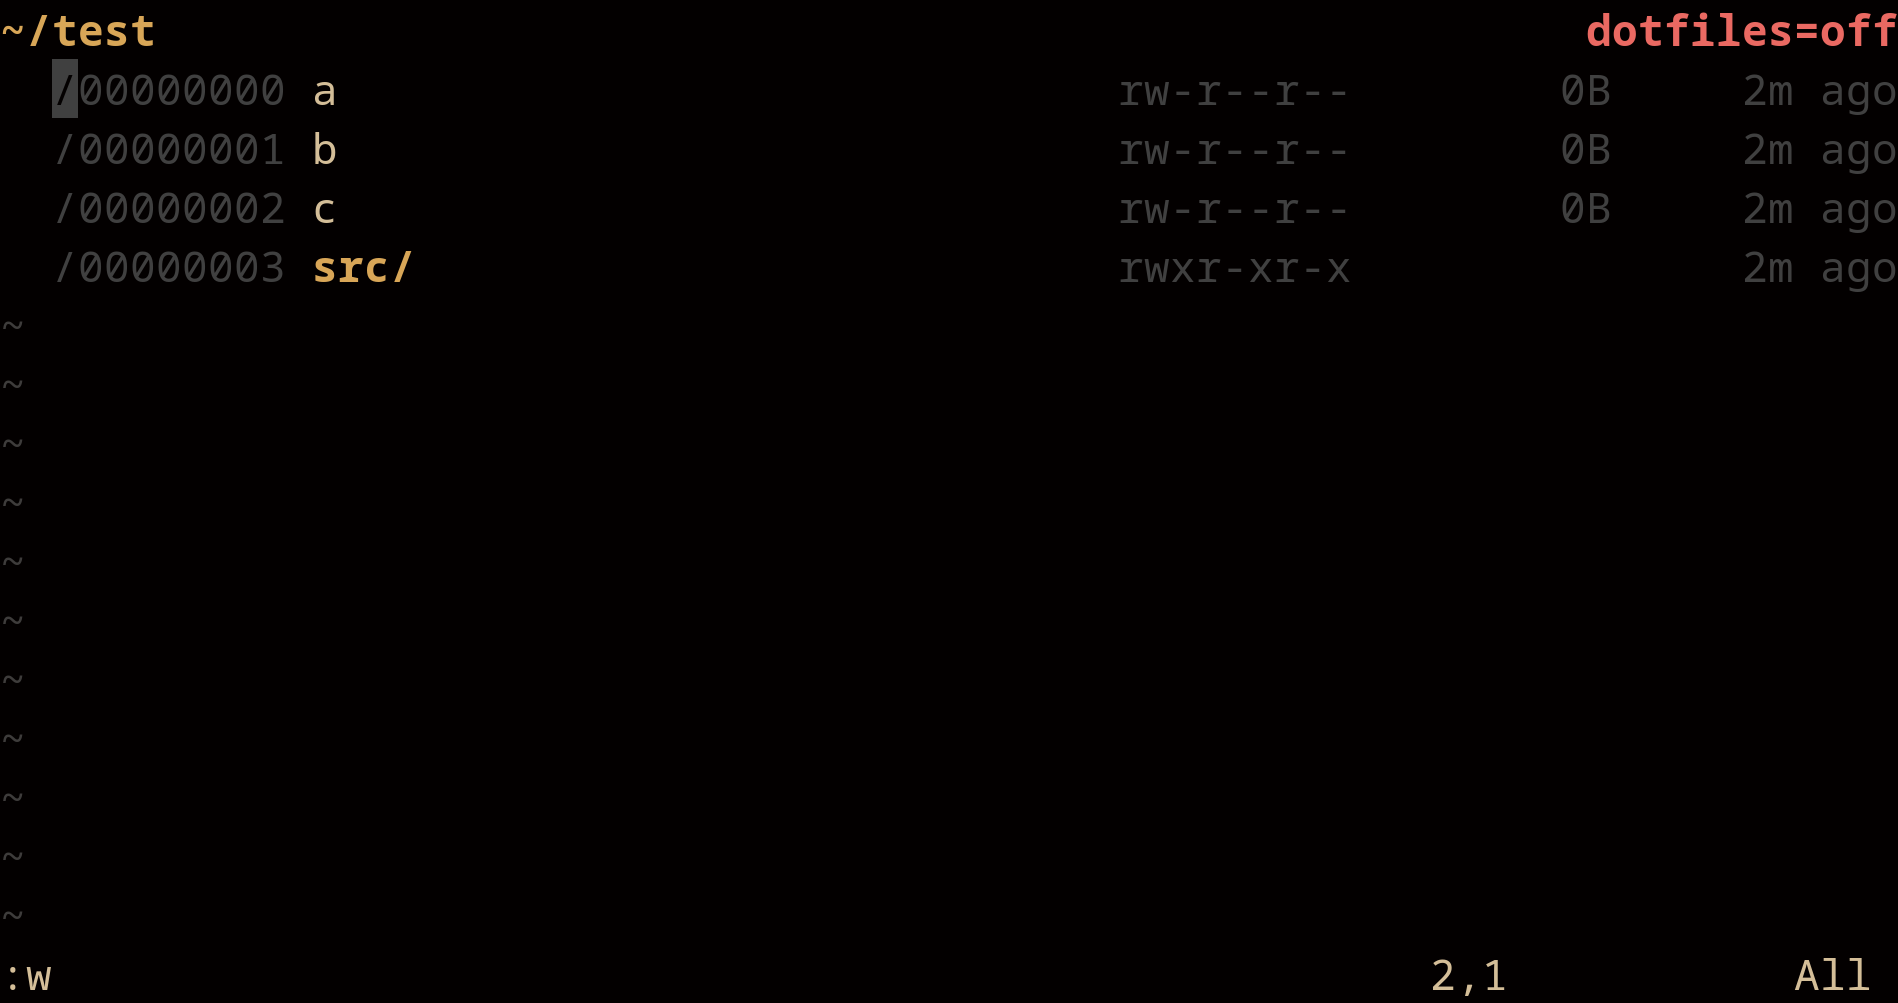
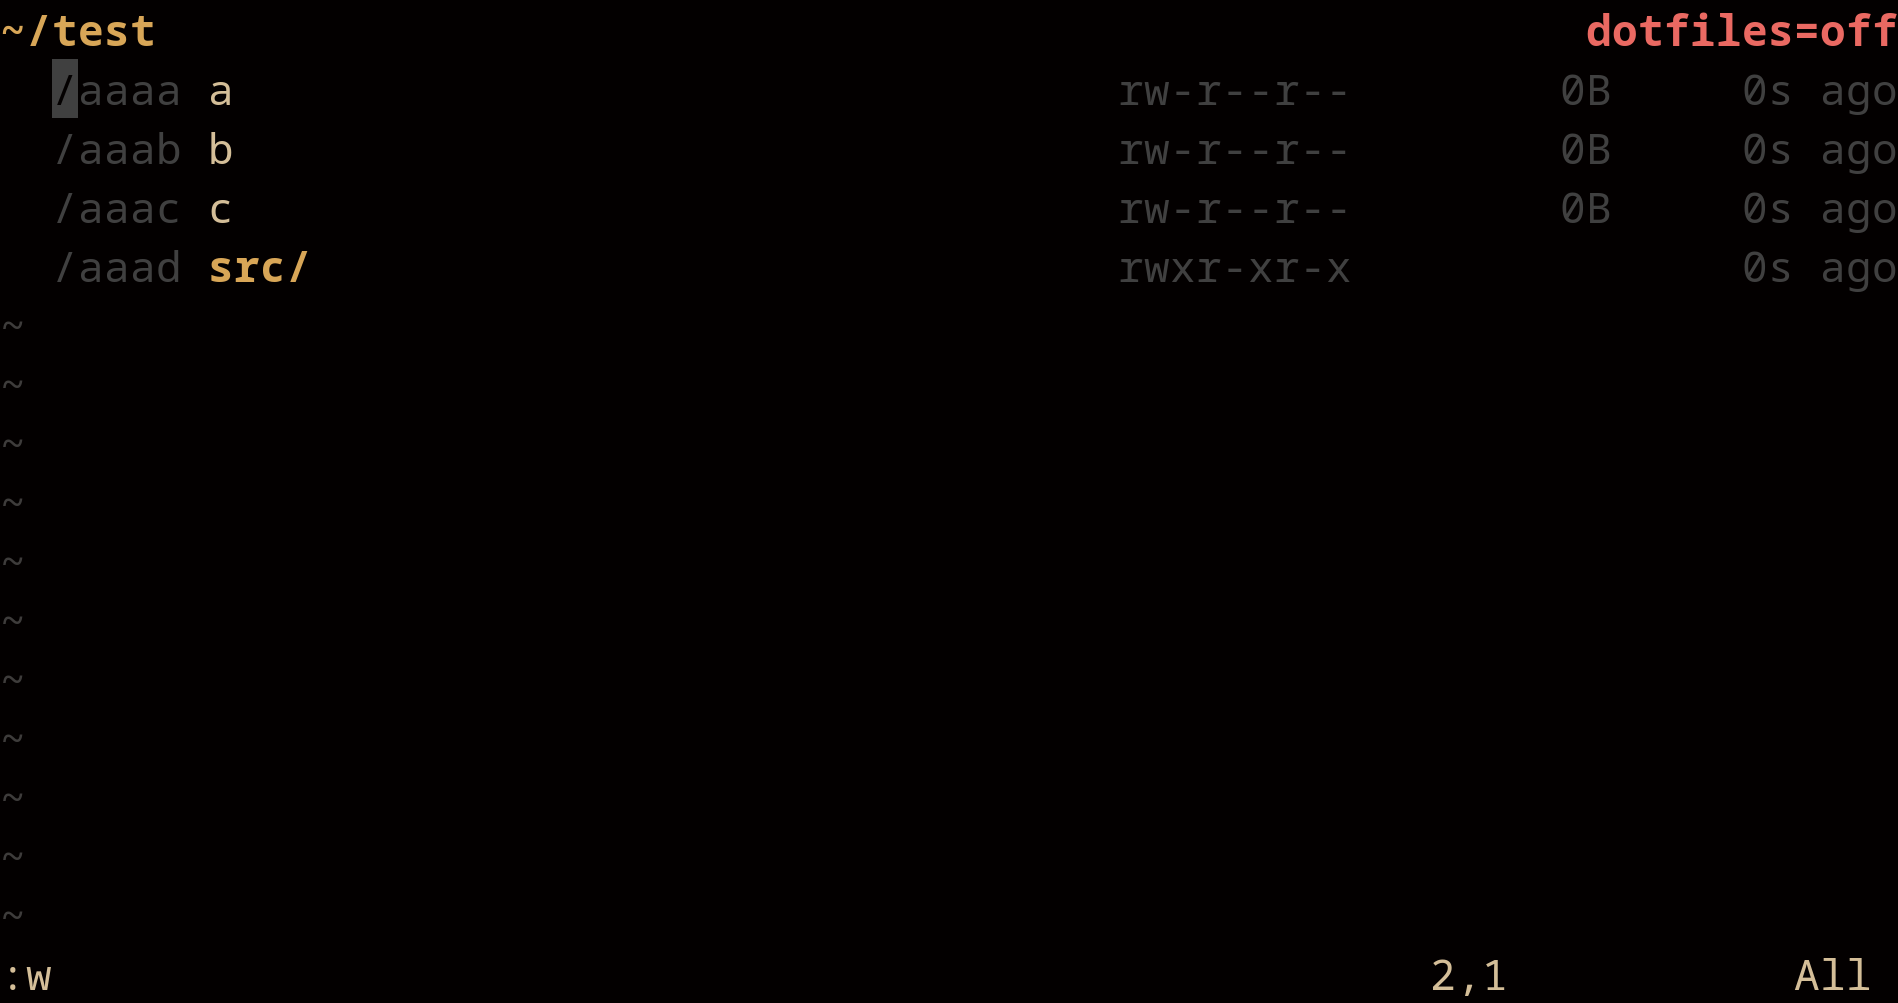
w

diff --git a/README.md b/README.md
@@ -2,7 +2,7 @@
 
 A simple ID-tracked file browser for Vim. The name **bex** stands for **Better Explorer**.
 
-`bex.vim` loads a directory listing into a standard text buffer where each line is prefixed with a visible tracking ID (`/00000000 `). You can modify, delete, or create lines using native Vim commands. Saving the buffer with `:w` commits those changes to disk.
+`bex.vim` loads a directory listing into a standard text buffer where each line is prefixed with a visible tracking ID (`/xxxx `). You can modify, delete, or create lines using native Vim commands. Saving the buffer with `:w` commits those changes to disk.
 
 ![bex.vim demo](images/demo.png)
 
